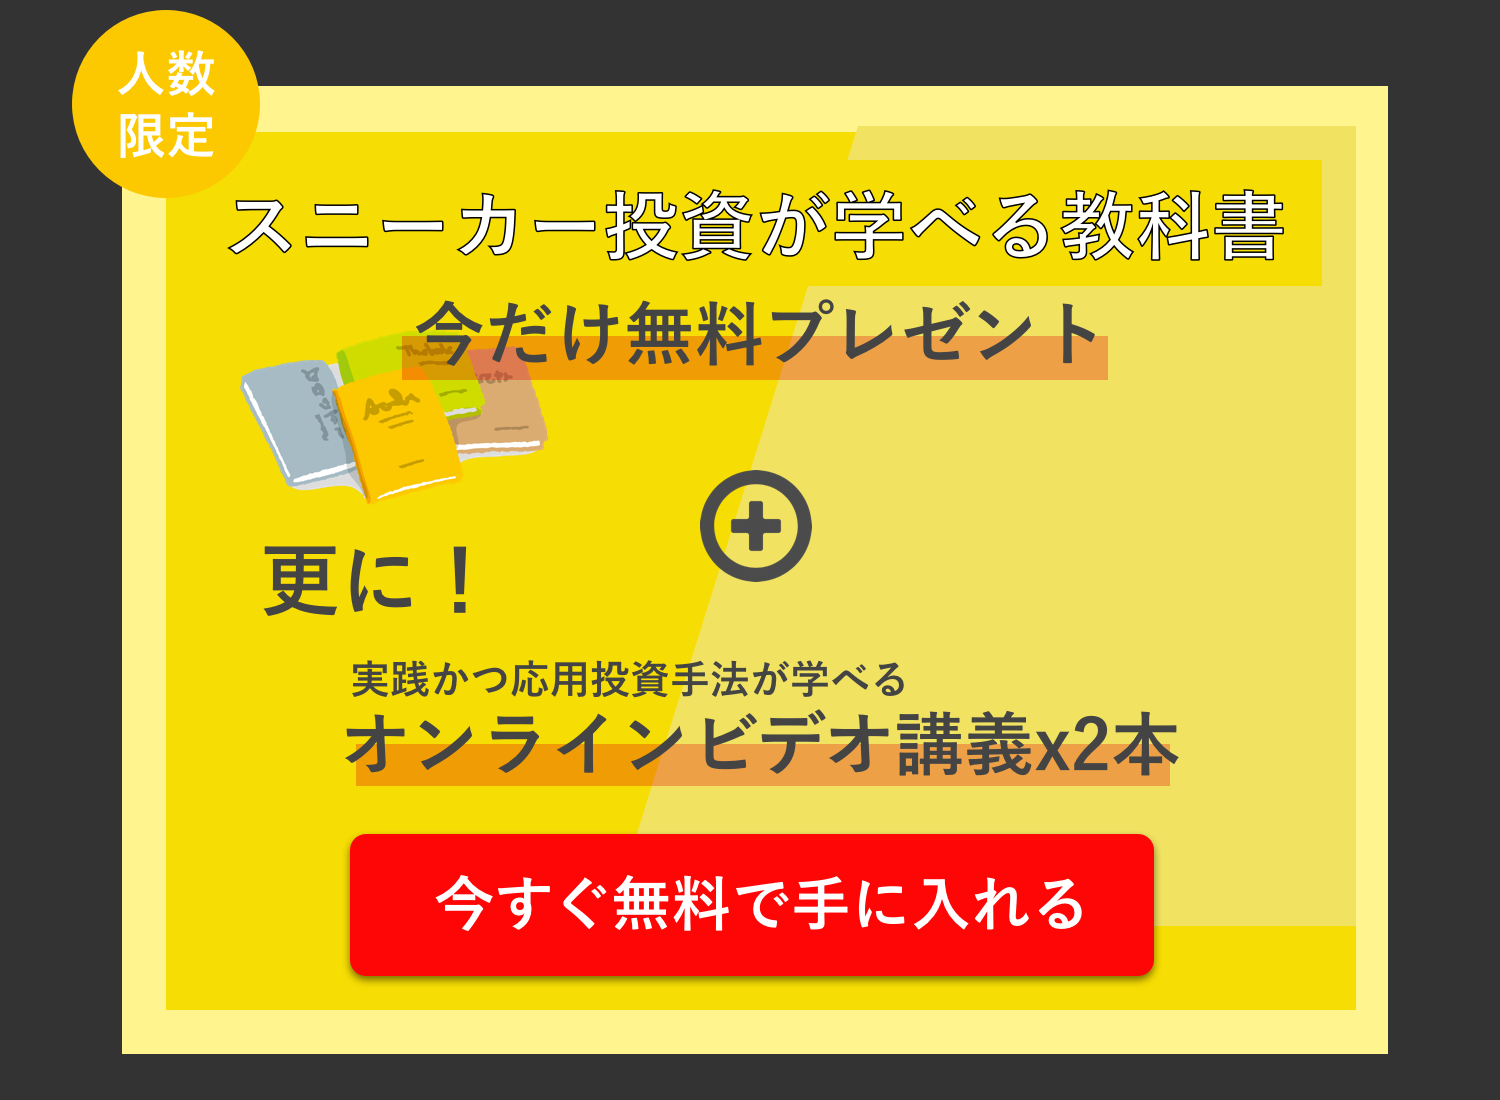
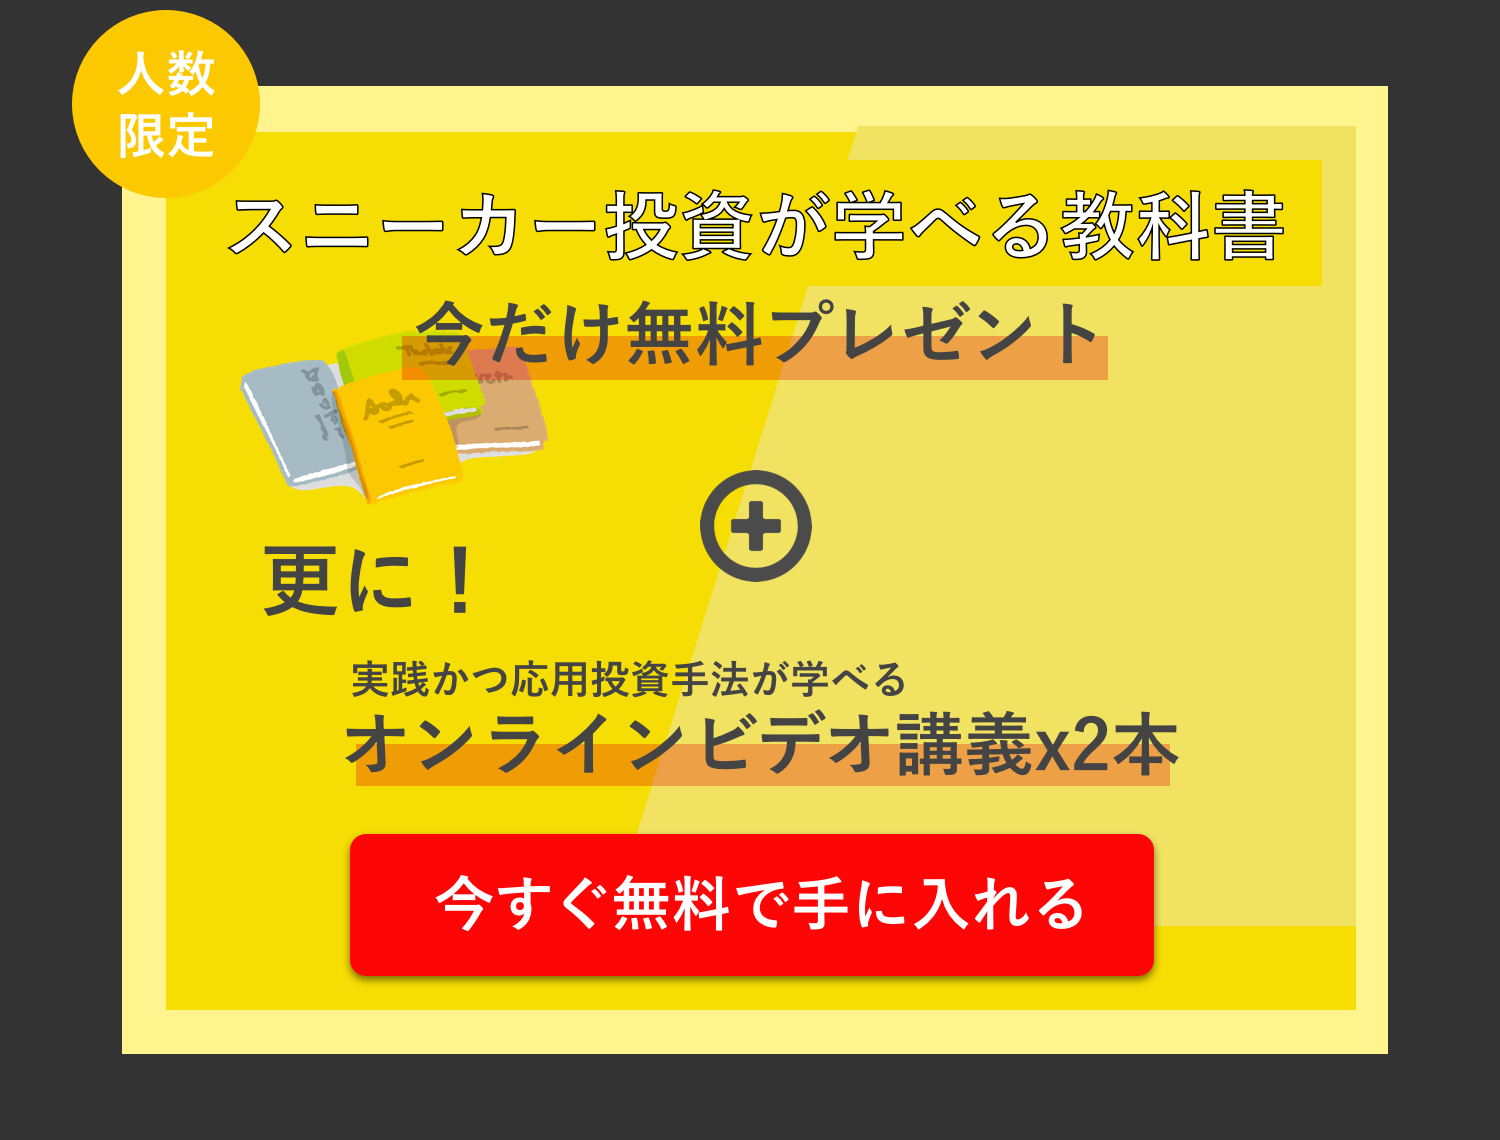
ch

Changed region(s): [[0.0613, 0.0927, 0.9507, 0.9582], [0.0613, 0.0309, 0.1533, 0.1855]]

diff --git a/index.html b/index.html
@@ -18,14 +18,14 @@
     
     <div class="content" style="margin:0 auto;border:solid #f8f8f8;">
     	
-        <img src="./LP1.png" style="width:100%">
-        <img src="./LP2.png" style="width:100%">
+        <img src="./LP1@2x.png" style="width:100%">
+        <img src="./LP2@2x.png" style="width:100%">
         <img src="./LP_add.png" style="width:100%">
-        <img src="./LP3.png" style="width:100%">
-        <img src="./LP4.png" style="width:100%">
-        <img src="./LP5.png" style="width:100%">
-        <img src="./LP6.png" style="width:100%">
-        <img src="./LP7.png" style="width:100%">
+        <img src="./LP3@2x.png" style="width:100%">
+        <img src="./LP4@2x.png" style="width:100%">
+        <img src="./LP5@2x.png" style="width:100%">
+        <img src="./LP6@2x.png" style="width:100%">
+        <img src="./LP7@2x.png" style="width:100%">
         <img src="./LP8.png" style="width:100%">
         <img src="./LP9.png" style="width:100%">
     
